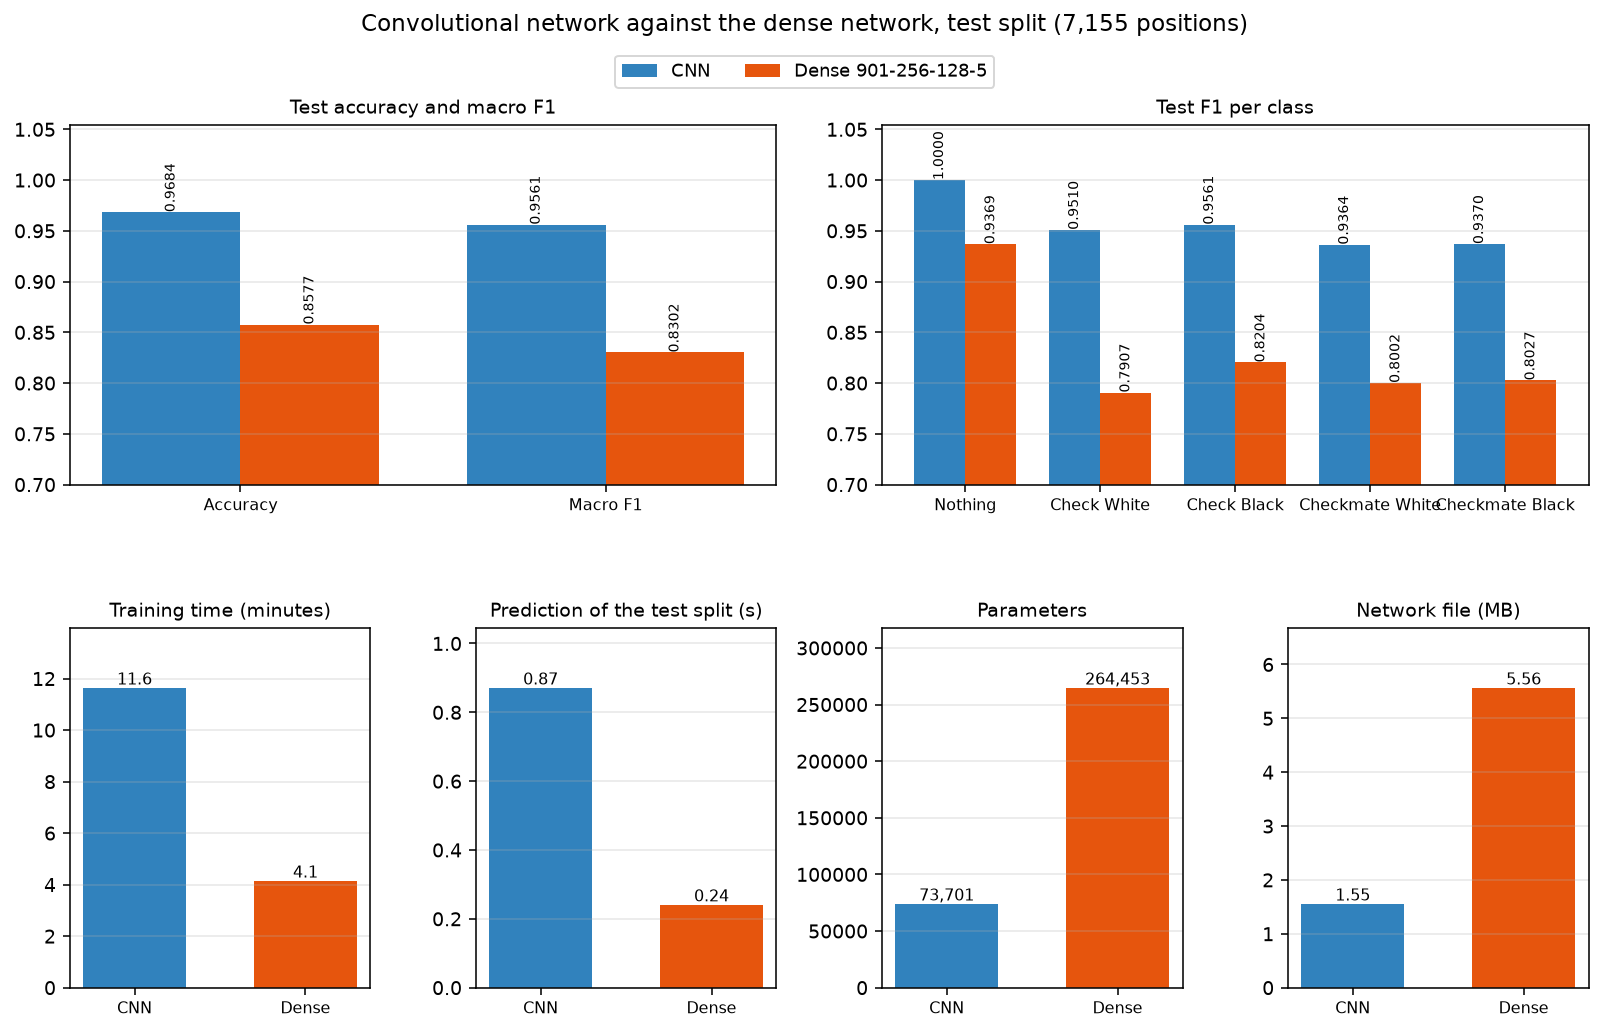
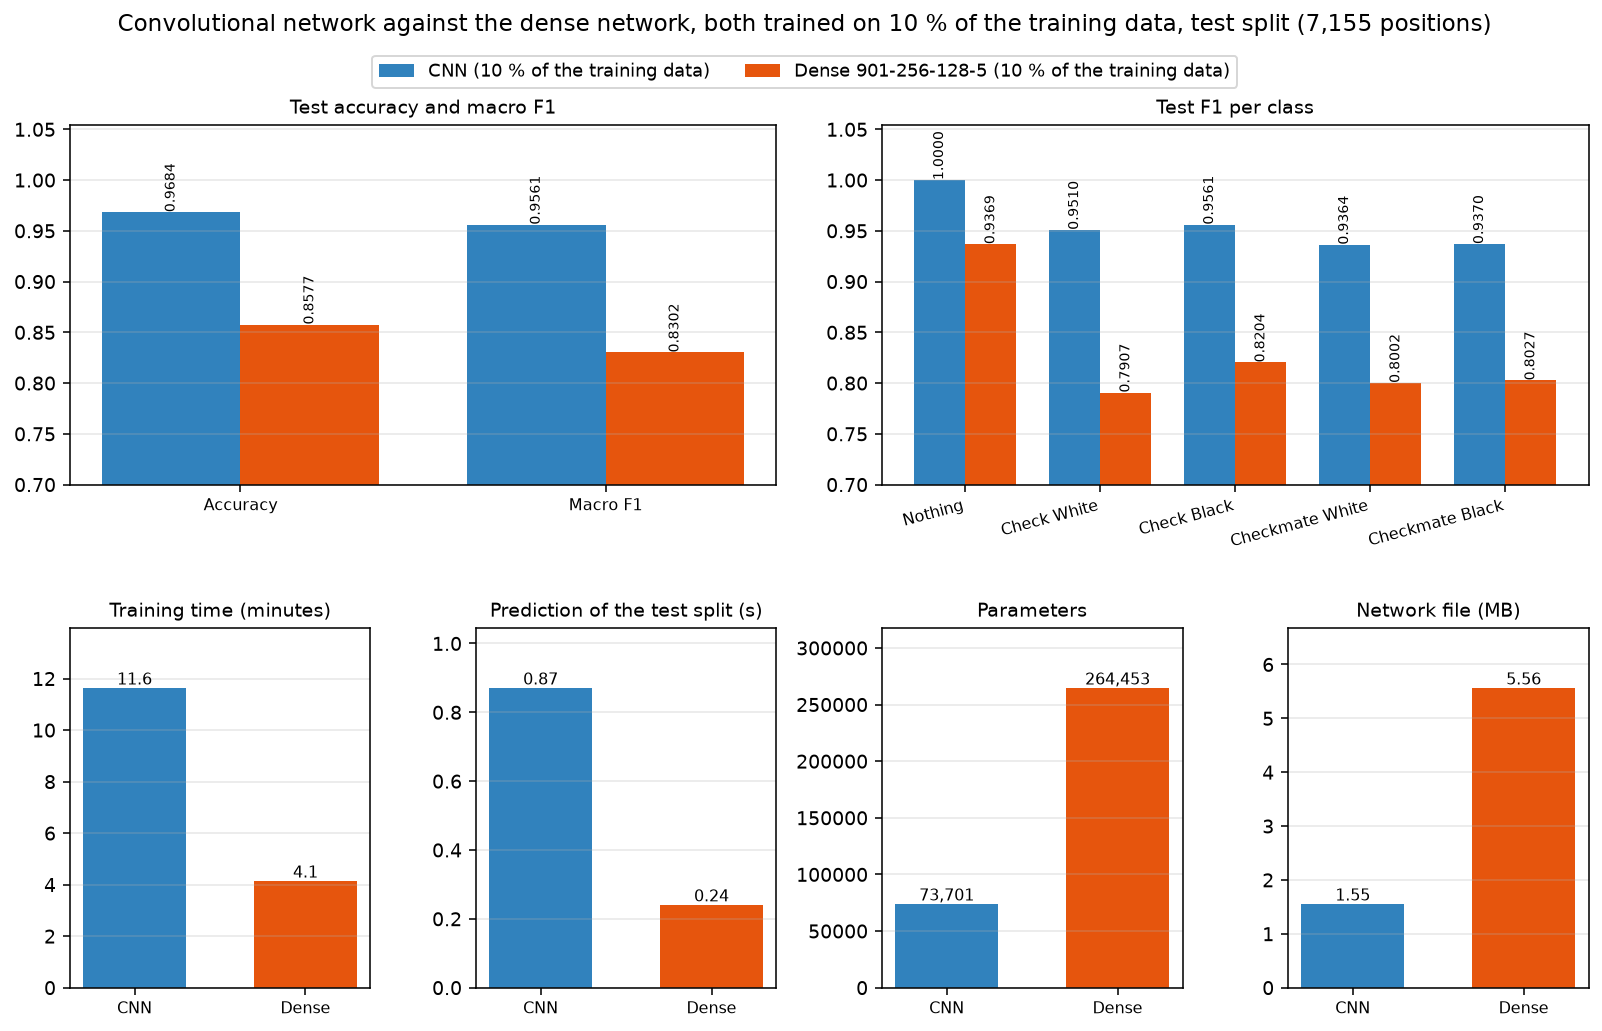
perf: label the CNN chart with its 10 % training data

diff --git a/scripts/plot_cnn.py b/scripts/plot_cnn.py
@@ -14,7 +14,8 @@ import matplotlib.pyplot as plt
 CLASSES = [("nothing", "Nothing"), ("check_white", "Check White"), ("check_black", "Check Black"),
            ("checkmate_white", "Checkmate White"), ("checkmate_black", "Checkmate Black")]
 COLORS = {"cnn": "#3182bd", "dense": "#e6550d"}
-LABELS = {"cnn": "CNN", "dense": "Dense 901-256-128-5"}
+LABELS = {"cnn": "CNN (10 % of the training data)",
+          "dense": "Dense 901-256-128-5 (10 % of the training data)"}
 
 
 def read(path):
@@ -34,7 +35,8 @@ def grouped(ax, groups, data, title, low=None):
             ax.text(bar.get_x() + bar.get_width() / 2, v, f"{v:.4f}", ha="center", va="bottom",
                     fontsize=7, rotation=90)
     ax.set_xticks(range(len(groups)))
-    ax.set_xticklabels([label for _, label in groups], fontsize=8)
+    ax.set_xticklabels([label for _, label in groups], fontsize=8,
+                       rotation=15 if len(groups) > 2 else 0, ha="right" if len(groups) > 2 else "center")
     ax.set_title(title, fontsize=10)
     if low is not None:
         ax.set_ylim(low, 1.0 + (1.0 - low) * 0.18)
@@ -72,8 +74,9 @@ def main():
            "Prediction of the test split (s)", 1, "", "{:.2f}")
     single(fig.add_subplot(grid[1, 2]), data, "parameters", "Parameters", 1, "", "{:,.0f}")
     single(fig.add_subplot(grid[1, 3]), data, "file_bytes", "Network file (MB)", 1e-6, "", "{:.2f}")
-    fig.suptitle("Convolutional network against the dense network, test split "
-                 f"({int(data['test_positions']['cnn']):,} positions)", fontsize=12)
+    fig.suptitle("Convolutional network against the dense network, both trained on 10 % of the "
+                 f"training data, test split ({int(data['test_positions']['cnn']):,} positions)",
+                 fontsize=12)
     fig.savefig(sys.argv[2], dpi=140, bbox_inches="tight")
     print(sys.argv[2])
 
